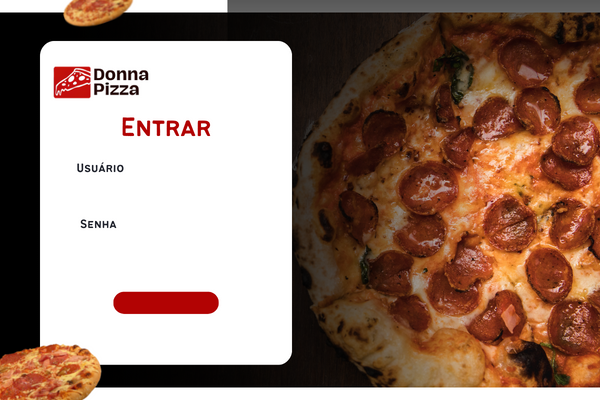
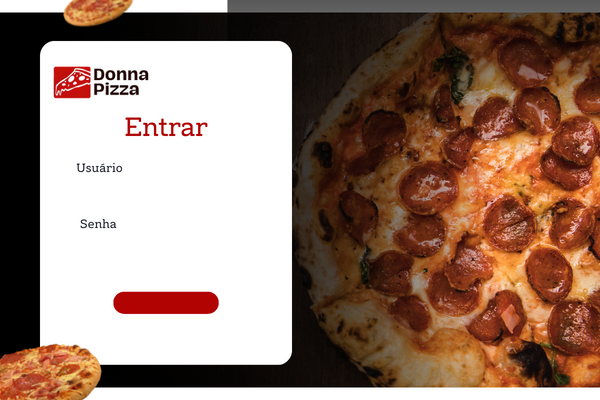
tela principal

Changed region(s): [[0.18, 0.27, 0.36, 0.36], [0.12, 0.39, 0.21, 0.45], [0.12, 0.54, 0.21, 0.57]]

diff --git a/DonnaPizza/src/view/viewPrincipal.java b/DonnaPizza/src/view/viewPrincipal.java
@@ -1,12 +1,28 @@
 package view;
 
-
+import java.awt.Color;
+import javax.swing.JOptionPane;
+import javax.swing.ImageIcon;
+import javax.swing.JLabel;
 
 public class viewPrincipal extends javax.swing.JFrame {
 
     public viewPrincipal() {
         initComponents();
-        setExtendedState(MAXIMIZED_BOTH);
+
+        // Adicione este código logo após a inicialização do JDesktopPane no método initComponents()
+// Carregar a imagem de fundo
+        ImageIcon backgroundImage = new ImageIcon(getClass().getResource("/images/others/bg-principal.jpg"));
+        // Substitua pelo caminho da sua imagem
+
+// Criar um JLabel com a imagem de fundo
+        JLabel backgroundLabel = new JLabel(backgroundImage);
+        backgroundLabel.setBounds(0, 0, backgroundImage.getIconWidth(), backgroundImage.getIconHeight());
+        backgroundLabel.setOpaque(true);
+        backgroundLabel.setBackground(new Color(0, 0, 0, 0)); // tornar o JLabel transparente
+
+// Colocar o JLabel no JLayeredPane do JDesktopPane
+        desktopPane.add(backgroundLabel, Integer.valueOf(Integer.MIN_VALUE));
 
     }
 
@@ -14,11 +30,9 @@ public class viewPrincipal extends javax.swing.JFrame {
     // <editor-fold defaultstate="collapsed" desc="Generated Code">//GEN-BEGIN:initComponents
     private void initComponents() {
 
-        jDesktopPane1 = new javax.swing.JDesktopPane();
+        desktopPane = new javax.swing.JDesktopPane();
         jPanel1 = new javax.swing.JPanel();
-        jLabel1 = new javax.swing.JLabel();
-        jLabel3 = new javax.swing.JLabel();
-        img = new javax.swing.JLabel();
+        jLabel2 = new javax.swing.JLabel();
         jmbMenu = new javax.swing.JMenuBar();
         jmSistema = new javax.swing.JMenu();
         jmiTrocarUsuario = new javax.swing.JMenuItem();
@@ -42,34 +56,34 @@ public class viewPrincipal extends javax.swing.JFrame {
         jmiAbrirPdv = new javax.swing.JMenuItem();
 
         setDefaultCloseOperation(javax.swing.WindowConstants.EXIT_ON_CLOSE);
+        getContentPane().setLayout(new org.netbeans.lib.awtextra.AbsoluteLayout());
 
-        javax.swing.GroupLayout jDesktopPane1Layout = new javax.swing.GroupLayout(jDesktopPane1);
-        jDesktopPane1.setLayout(jDesktopPane1Layout);
-        jDesktopPane1Layout.setHorizontalGroup(
-            jDesktopPane1Layout.createParallelGroup(javax.swing.GroupLayout.Alignment.LEADING)
-            .addGap(0, 883, Short.MAX_VALUE)
+        javax.swing.GroupLayout desktopPaneLayout = new javax.swing.GroupLayout(desktopPane);
+        desktopPane.setLayout(desktopPaneLayout);
+        desktopPaneLayout.setHorizontalGroup(
+            desktopPaneLayout.createParallelGroup(javax.swing.GroupLayout.Alignment.LEADING)
+            .addGap(0, 790, Short.MAX_VALUE)
         );
-        jDesktopPane1Layout.setVerticalGroup(
-            jDesktopPane1Layout.createParallelGroup(javax.swing.GroupLayout.Alignment.LEADING)
+        desktopPaneLayout.setVerticalGroup(
+            desktopPaneLayout.createParallelGroup(javax.swing.GroupLayout.Alignment.LEADING)
             .addGap(0, 0, Short.MAX_VALUE)
         );
+
+        getContentPane().add(desktopPane, new org.netbeans.lib.awtextra.AbsoluteConstraints(100, 0, 790, 524));
 
         jPanel1.setPreferredSize(new java.awt.Dimension(100, 530));
         jPanel1.setLayout(new org.netbeans.lib.awtextra.AbsoluteLayout());
 
-        jLabel1.setFont(new java.awt.Font("Segoe UI", 1, 18)); // NOI18N
-        jLabel1.setText("da região!");
-        jPanel1.add(jLabel1, new org.netbeans.lib.awtextra.AbsoluteConstraints(20, 250, -1, -1));
+        jLabel2.setIcon(new javax.swing.ImageIcon(getClass().getResource("/images/others/principal-panel.png"))); // NOI18N
+        jPanel1.add(jLabel2, new org.netbeans.lib.awtextra.AbsoluteConstraints(0, -10, 100, 540));
 
-        jLabel3.setFont(new java.awt.Font("Segoe UI", 1, 18)); // NOI18N
-        jLabel3.setText("A melhor pizza");
-        jPanel1.add(jLabel3, new org.netbeans.lib.awtextra.AbsoluteConstraints(20, 230, -1, -1));
+        getContentPane().add(jPanel1, new org.netbeans.lib.awtextra.AbsoluteConstraints(0, 0, -1, -1));
 
-        img.setIcon(new javax.swing.ImageIcon(getClass().getResource("/images/others/donna-logo.png"))); // NOI18N
-        jPanel1.add(img, new org.netbeans.lib.awtextra.AbsoluteConstraints(10, 10, 160, 60));
-
+        jmSistema.setIcon(new javax.swing.ImageIcon(getClass().getResource("/images/icons/sistema.png"))); // NOI18N
         jmSistema.setText("Sistema");
 
+        jmiTrocarUsuario.setAccelerator(javax.swing.KeyStroke.getKeyStroke(java.awt.event.KeyEvent.VK_F3, java.awt.event.InputEvent.ALT_DOWN_MASK));
+        jmiTrocarUsuario.setIcon(new javax.swing.ImageIcon(getClass().getResource("/images/icons/troca.png"))); // NOI18N
         jmiTrocarUsuario.setText("Trocar usuário");
         jmiTrocarUsuario.addActionListener(new java.awt.event.ActionListener() {
             public void actionPerformed(java.awt.event.ActionEvent evt) {
@@ -78,70 +92,93 @@ public class viewPrincipal extends javax.swing.JFrame {
         });
         jmSistema.add(jmiTrocarUsuario);
 
+        jmiSair.setAccelerator(javax.swing.KeyStroke.getKeyStroke(java.awt.event.KeyEvent.VK_F4, java.awt.event.InputEvent.ALT_DOWN_MASK));
+        jmiSair.setIcon(new javax.swing.ImageIcon(getClass().getResource("/images/icons/logout.png"))); // NOI18N
         jmiSair.setText("Sair");
+        jmiSair.addMouseListener(new java.awt.event.MouseAdapter() {
+            public void mousePressed(java.awt.event.MouseEvent evt) {
+                jmiSairMousePressed(evt);
+            }
+        });
         jmSistema.add(jmiSair);
 
         jmbMenu.add(jmSistema);
 
+        jmCadastros.setIcon(new javax.swing.ImageIcon(getClass().getResource("/images/icons/cadastro.png"))); // NOI18N
         jmCadastros.setText("Cadastros");
 
+        jmiClientes.setIcon(new javax.swing.ImageIcon(getClass().getResource("/images/icons/cliente.png"))); // NOI18N
         jmiClientes.setText("Clientes");
         jmCadastros.add(jmiClientes);
 
+        jmiFornecedores.setIcon(new javax.swing.ImageIcon(getClass().getResource("/images/icons/fornecedor.png"))); // NOI18N
         jmiFornecedores.setText("Fornecedores");
         jmiFornecedores.setEnabled(false);
         jmCadastros.add(jmiFornecedores);
 
+        jmiFuncionarios.setIcon(new javax.swing.ImageIcon(getClass().getResource("/images/icons/funcionario.png"))); // NOI18N
         jmiFuncionarios.setText("Funcionários");
         jmiFuncionarios.setEnabled(false);
         jmCadastros.add(jmiFuncionarios);
 
         jmbMenu.add(jmCadastros);
 
+        jmEstoque.setIcon(new javax.swing.ImageIcon(getClass().getResource("/images/icons/estoque.png"))); // NOI18N
         jmEstoque.setText("Estoque");
         jmEstoque.setEnabled(false);
 
+        jmiProduto.setIcon(new javax.swing.ImageIcon(getClass().getResource("/images/icons/produto.png"))); // NOI18N
         jmiProduto.setText("Produtos");
         jmEstoque.add(jmiProduto);
 
+        jmiCategorias.setIcon(new javax.swing.ImageIcon(getClass().getResource("/images/icons/categoria.png"))); // NOI18N
         jmiCategorias.setText("Categorias");
         jmEstoque.add(jmiCategorias);
 
         jmbMenu.add(jmEstoque);
 
+        jmVenda.setIcon(new javax.swing.ImageIcon(getClass().getResource("/images/icons/venda.png"))); // NOI18N
         jmVenda.setText("Venda");
 
+        jmiNovaVenda.setIcon(new javax.swing.ImageIcon(getClass().getResource("/images/icons/new venda.png"))); // NOI18N
         jmiNovaVenda.setText("Nova venda");
         jmVenda.add(jmiNovaVenda);
 
+        jmiVendas.setIcon(new javax.swing.ImageIcon(getClass().getResource("/images/icons/lista venda.png"))); // NOI18N
         jmiVendas.setText("Vendas");
-        jmiVendas.setEnabled(false);
         jmVenda.add(jmiVendas);
 
         jmbMenu.add(jmVenda);
 
+        jmCompra.setIcon(new javax.swing.ImageIcon(getClass().getResource("/images/icons/compras.png"))); // NOI18N
         jmCompra.setText("Compra");
         jmCompra.setEnabled(false);
 
+        jmiNovaCompra.setIcon(new javax.swing.ImageIcon(getClass().getResource("/images/icons/new compra.png"))); // NOI18N
         jmiNovaCompra.setText("Nova compra");
         jmCompra.add(jmiNovaCompra);
 
+        jmiCompras.setIcon(new javax.swing.ImageIcon(getClass().getResource("/images/icons/lista compra.png"))); // NOI18N
         jmiCompras.setText("Compras");
         jmCompra.add(jmiCompras);
 
         jmbMenu.add(jmCompra);
 
+        jmRelatorio.setIcon(new javax.swing.ImageIcon(getClass().getResource("/images/icons/relatorio.png"))); // NOI18N
         jmRelatorio.setText("Relatorio");
         jmRelatorio.setEnabled(false);
 
+        jmiFazerRelatorio.setIcon(new javax.swing.ImageIcon(getClass().getResource("/images/icons/new relatorio.png"))); // NOI18N
         jmiFazerRelatorio.setText("Fazer relatório");
         jmRelatorio.add(jmiFazerRelatorio);
 
         jmbMenu.add(jmRelatorio);
 
+        jmPdv.setIcon(new javax.swing.ImageIcon(getClass().getResource("/images/icons/pdv.png"))); // NOI18N
         jmPdv.setText("PDV");
         jmPdv.setEnabled(false);
 
+        jmiAbrirPdv.setIcon(new javax.swing.ImageIcon(getClass().getResource("/images/icons/pdv.png"))); // NOI18N
         jmiAbrirPdv.setText("Abrir PDV");
         jmPdv.add(jmiAbrirPdv);
 
@@ -149,69 +186,44 @@ public class viewPrincipal extends javax.swing.JFrame {
 
         setJMenuBar(jmbMenu);
 
-        javax.swing.GroupLayout layout = new javax.swing.GroupLayout(getContentPane());
-        getContentPane().setLayout(layout);
-        layout.setHorizontalGroup(
-            layout.createParallelGroup(javax.swing.GroupLayout.Alignment.LEADING)
-            .addGroup(javax.swing.GroupLayout.Alignment.TRAILING, layout.createSequentialGroup()
-                .addComponent(jPanel1, javax.swing.GroupLayout.PREFERRED_SIZE, 180, javax.swing.GroupLayout.PREFERRED_SIZE)
-                .addPreferredGap(javax.swing.LayoutStyle.ComponentPlacement.RELATED)
-                .addComponent(jDesktopPane1))
-        );
-        layout.setVerticalGroup(
-            layout.createParallelGroup(javax.swing.GroupLayout.Alignment.LEADING)
-            .addComponent(jPanel1, javax.swing.GroupLayout.DEFAULT_SIZE, 587, Short.MAX_VALUE)
-            .addComponent(jDesktopPane1)
-        );
-
-        setSize(new java.awt.Dimension(900, 600));
+        setSize(new java.awt.Dimension(900, 553));
         setLocationRelativeTo(null);
     }// </editor-fold>//GEN-END:initComponents
 
     private void jmiTrocarUsuarioActionPerformed(java.awt.event.ActionEvent evt) {//GEN-FIRST:event_jmiTrocarUsuarioActionPerformed
-        // TODO add your handling code here:
+        String[] options = {"Trocar", "Cancelar"}; // Textos personalizados dos botões
+
+        int confirmacaoTrocaUsuario = JOptionPane.showOptionDialog(
+                this, "Tem certeza que deseja trocar de usuário?", "Confirmação", JOptionPane.YES_NO_OPTION,
+                JOptionPane.QUESTION_MESSAGE, null, options, options[0]
+        );
+
+        //Fecha a tela atual e reabre a de login
+        if (confirmacaoTrocaUsuario == JOptionPane.YES_OPTION) {
+            dispose();
+            new viewLogin().setVisible(true);
+        }
     }//GEN-LAST:event_jmiTrocarUsuarioActionPerformed
 
-    /**
-     * @param args the command line arguments
-     */
-    public static void main(String args[]) {
-        /* Set the Nimbus look and feel */
-        //<editor-fold defaultstate="collapsed" desc=" Look and feel setting code (optional) ">
-        /* If Nimbus (introduced in Java SE 6) is not available, stay with the default look and feel.
-         * For details see http://download.oracle.com/javase/tutorial/uiswing/lookandfeel/plaf.html 
-         */
-        try {
-            for (javax.swing.UIManager.LookAndFeelInfo info : javax.swing.UIManager.getInstalledLookAndFeels()) {
-                if ("Nimbus".equals(info.getName())) {
-                    javax.swing.UIManager.setLookAndFeel(info.getClassName());
-                    break;
-                }
-            }
-        } catch (ClassNotFoundException ex) {
-            java.util.logging.Logger.getLogger(viewPrincipal.class.getName()).log(java.util.logging.Level.SEVERE, null, ex);
-        } catch (InstantiationException ex) {
-            java.util.logging.Logger.getLogger(viewPrincipal.class.getName()).log(java.util.logging.Level.SEVERE, null, ex);
-        } catch (IllegalAccessException ex) {
-            java.util.logging.Logger.getLogger(viewPrincipal.class.getName()).log(java.util.logging.Level.SEVERE, null, ex);
-        } catch (javax.swing.UnsupportedLookAndFeelException ex) {
-            java.util.logging.Logger.getLogger(viewPrincipal.class.getName()).log(java.util.logging.Level.SEVERE, null, ex);
-        }
-        //</editor-fold>
+    private void jmiSairMousePressed(java.awt.event.MouseEvent evt) {//GEN-FIRST:event_jmiSairMousePressed
+                String[] options = {"Sair", "Cancelar"}; // Textos personalizados dos botões
 
-        /* Create and display the form */
-        java.awt.EventQueue.invokeLater(new Runnable() {
-            public void run() {
-                new viewPrincipal().setVisible(true);
-            }
-        });
-    }
+        int confirmarSaida = JOptionPane.showOptionDialog(
+                this, "Tem certeza que deseja fechar o sistema?", "Confirmação", JOptionPane.YES_NO_OPTION,
+                JOptionPane.QUESTION_MESSAGE, null, options, options[0]
+        );
+        
+         if (confirmarSaida == JOptionPane.YES_OPTION) {
+         
+             System.exit(0);
+             
+         }
+    }//GEN-LAST:event_jmiSairMousePressed
+
 
     // Variables declaration - do not modify//GEN-BEGIN:variables
-    private javax.swing.JLabel img;
-    private javax.swing.JDesktopPane jDesktopPane1;
-    private javax.swing.JLabel jLabel1;
-    private javax.swing.JLabel jLabel3;
+    private javax.swing.JDesktopPane desktopPane;
+    private javax.swing.JLabel jLabel2;
     private javax.swing.JPanel jPanel1;
     private javax.swing.JMenu jmCadastros;
     public static javax.swing.JMenu jmCompra;

diff --git a/DonnaPizza/src/view/viewLogin.java b/DonnaPizza/src/view/viewLogin.java
@@ -26,7 +26,7 @@ public class viewLogin extends javax.swing.JFrame {
         jPanel1 = new javax.swing.JPanel();
         jtfUsuario = new javax.swing.JTextField();
         jpsSenha = new javax.swing.JPasswordField();
-        jbEntrar = new javax.swing.JButton();
+        jbAcessar = new javax.swing.JButton();
         img = new javax.swing.JLabel();
 
         setDefaultCloseOperation(javax.swing.WindowConstants.EXIT_ON_CLOSE);
@@ -39,6 +39,7 @@ public class viewLogin extends javax.swing.JFrame {
 
         jPanel1.setLayout(new org.netbeans.lib.awtextra.AbsoluteLayout());
 
+        jtfUsuario.setFont(new java.awt.Font("Segoe UI", 0, 14)); // NOI18N
         jtfUsuario.addMouseListener(new java.awt.event.MouseAdapter() {
             public void mousePressed(java.awt.event.MouseEvent evt) {
                 jtfUsuarioMousePressed(evt);
@@ -51,6 +52,7 @@ public class viewLogin extends javax.swing.JFrame {
         });
         jPanel1.add(jtfUsuario, new org.netbeans.lib.awtextra.AbsoluteConstraints(70, 170, 190, -1));
 
+        jpsSenha.setFont(new java.awt.Font("Segoe UI", 0, 14)); // NOI18N
         jpsSenha.addMouseListener(new java.awt.event.MouseAdapter() {
             public void mousePressed(java.awt.event.MouseEvent evt) {
                 jpsSenhaMousePressed(evt);
@@ -63,17 +65,18 @@ public class viewLogin extends javax.swing.JFrame {
         });
         jPanel1.add(jpsSenha, new org.netbeans.lib.awtextra.AbsoluteConstraints(70, 230, 190, -1));
 
-        jbEntrar.setBackground(new java.awt.Color(227, 21, 21));
-        jbEntrar.setFont(new java.awt.Font("Segoe UI", 1, 18)); // NOI18N
-        jbEntrar.setForeground(new java.awt.Color(255, 255, 255));
-        jbEntrar.setText("Entrar");
-        jbEntrar.setHorizontalTextPosition(javax.swing.SwingConstants.CENTER);
-        jbEntrar.addActionListener(new java.awt.event.ActionListener() {
+        jbAcessar.setBackground(new java.awt.Color(227, 21, 21));
+        jbAcessar.setFont(new java.awt.Font("Rockwell", 1, 14)); // NOI18N
+        jbAcessar.setForeground(new java.awt.Color(255, 255, 255));
+        jbAcessar.setText("Acessar");
+        jbAcessar.setCursor(new java.awt.Cursor(java.awt.Cursor.HAND_CURSOR));
+        jbAcessar.setHorizontalTextPosition(javax.swing.SwingConstants.CENTER);
+        jbAcessar.addActionListener(new java.awt.event.ActionListener() {
             public void actionPerformed(java.awt.event.ActionEvent evt) {
-                jbEntrarActionPerformed(evt);
+                jbAcessarActionPerformed(evt);
             }
         });
-        jPanel1.add(jbEntrar, new org.netbeans.lib.awtextra.AbsoluteConstraints(110, 283, 110, 30));
+        jPanel1.add(jbAcessar, new org.netbeans.lib.awtextra.AbsoluteConstraints(110, 283, 110, 30));
 
         img.setIcon(new javax.swing.ImageIcon(getClass().getResource("/images/others/donna-bg-login.png"))); // NOI18N
         jPanel1.add(img, new org.netbeans.lib.awtextra.AbsoluteConstraints(0, -10, 620, 410));
@@ -92,9 +95,9 @@ public class viewLogin extends javax.swing.JFrame {
         logar();
     }//GEN-LAST:event_jpsSenhaActionPerformed
 
-    private void jbEntrarActionPerformed(java.awt.event.ActionEvent evt) {//GEN-FIRST:event_jbEntrarActionPerformed
+    private void jbAcessarActionPerformed(java.awt.event.ActionEvent evt) {//GEN-FIRST:event_jbAcessarActionPerformed
         logar();
-    }//GEN-LAST:event_jbEntrarActionPerformed
+    }//GEN-LAST:event_jbAcessarActionPerformed
 
     private void jtfUsuarioMousePressed(java.awt.event.MouseEvent evt) {//GEN-FIRST:event_jtfUsuarioMousePressed
         if (jtfUsuario.getText().equals("Digite o usuário")) {
@@ -136,7 +139,7 @@ public class viewLogin extends javax.swing.JFrame {
     // Variables declaration - do not modify//GEN-BEGIN:variables
     private javax.swing.JLabel img;
     private javax.swing.JPanel jPanel1;
-    private javax.swing.JButton jbEntrar;
+    private javax.swing.JButton jbAcessar;
     private javax.swing.JPasswordField jpsSenha;
     private javax.swing.JTextField jtfUsuario;
     // End of variables declaration//GEN-END:variables
